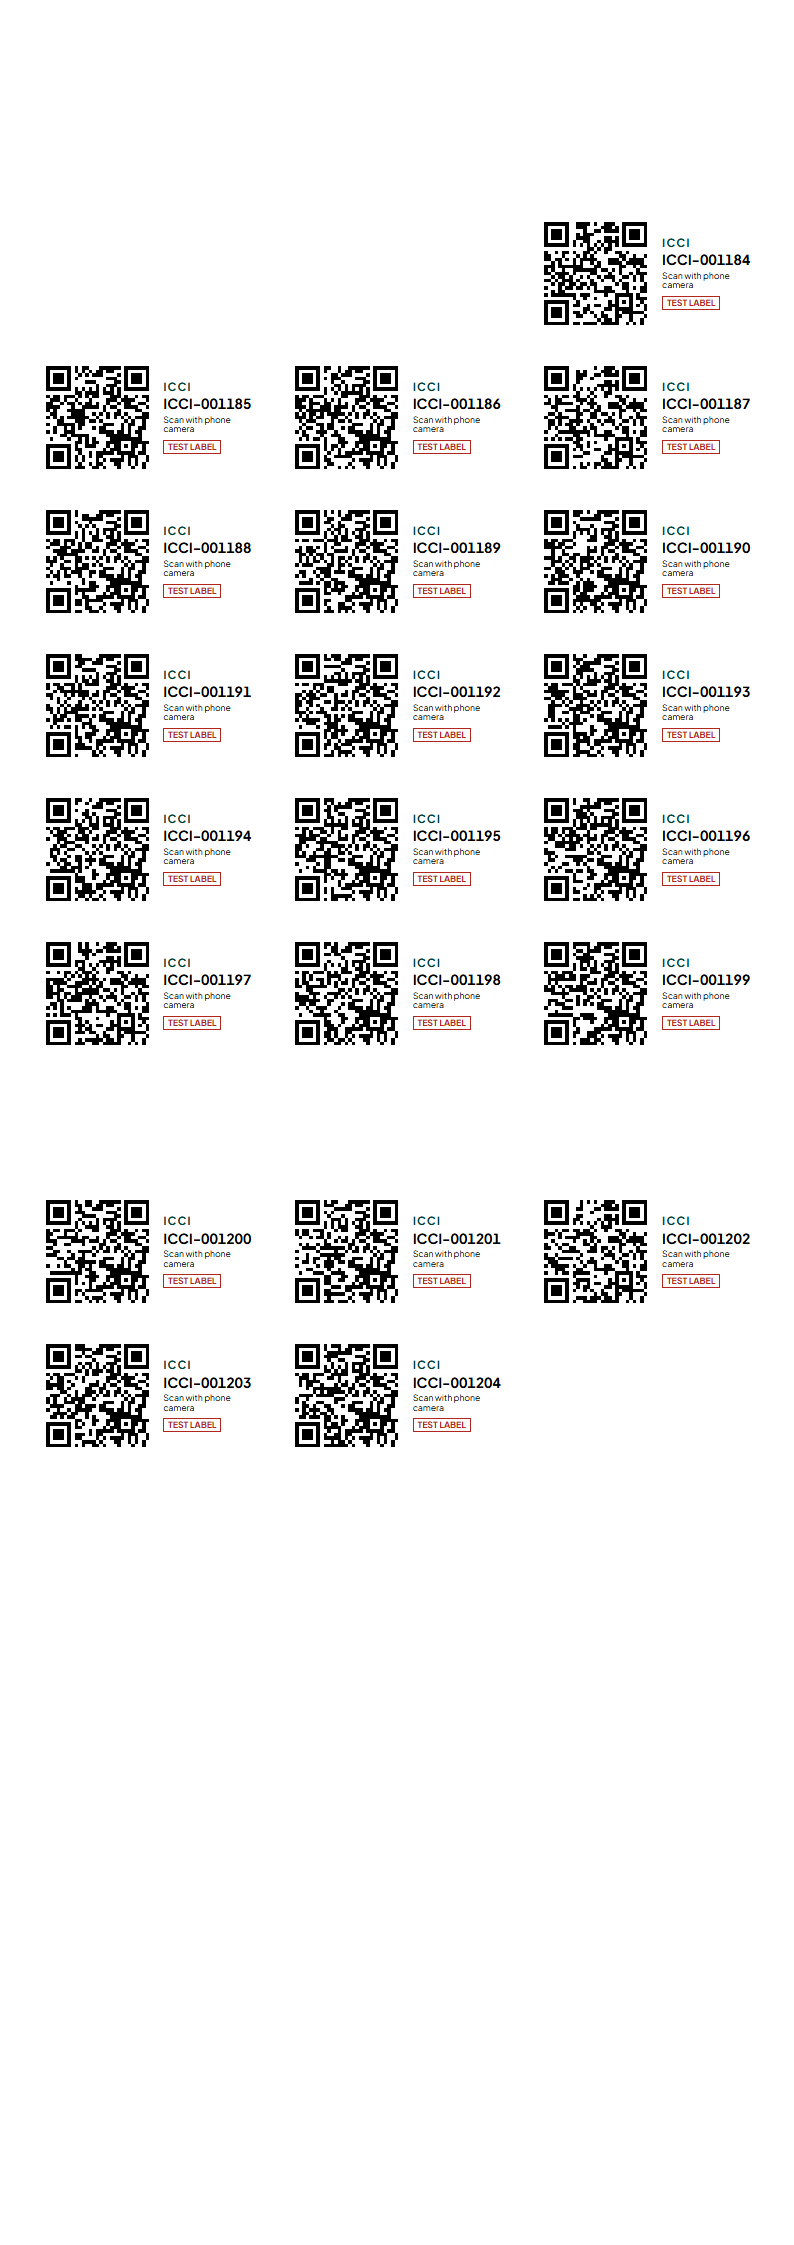
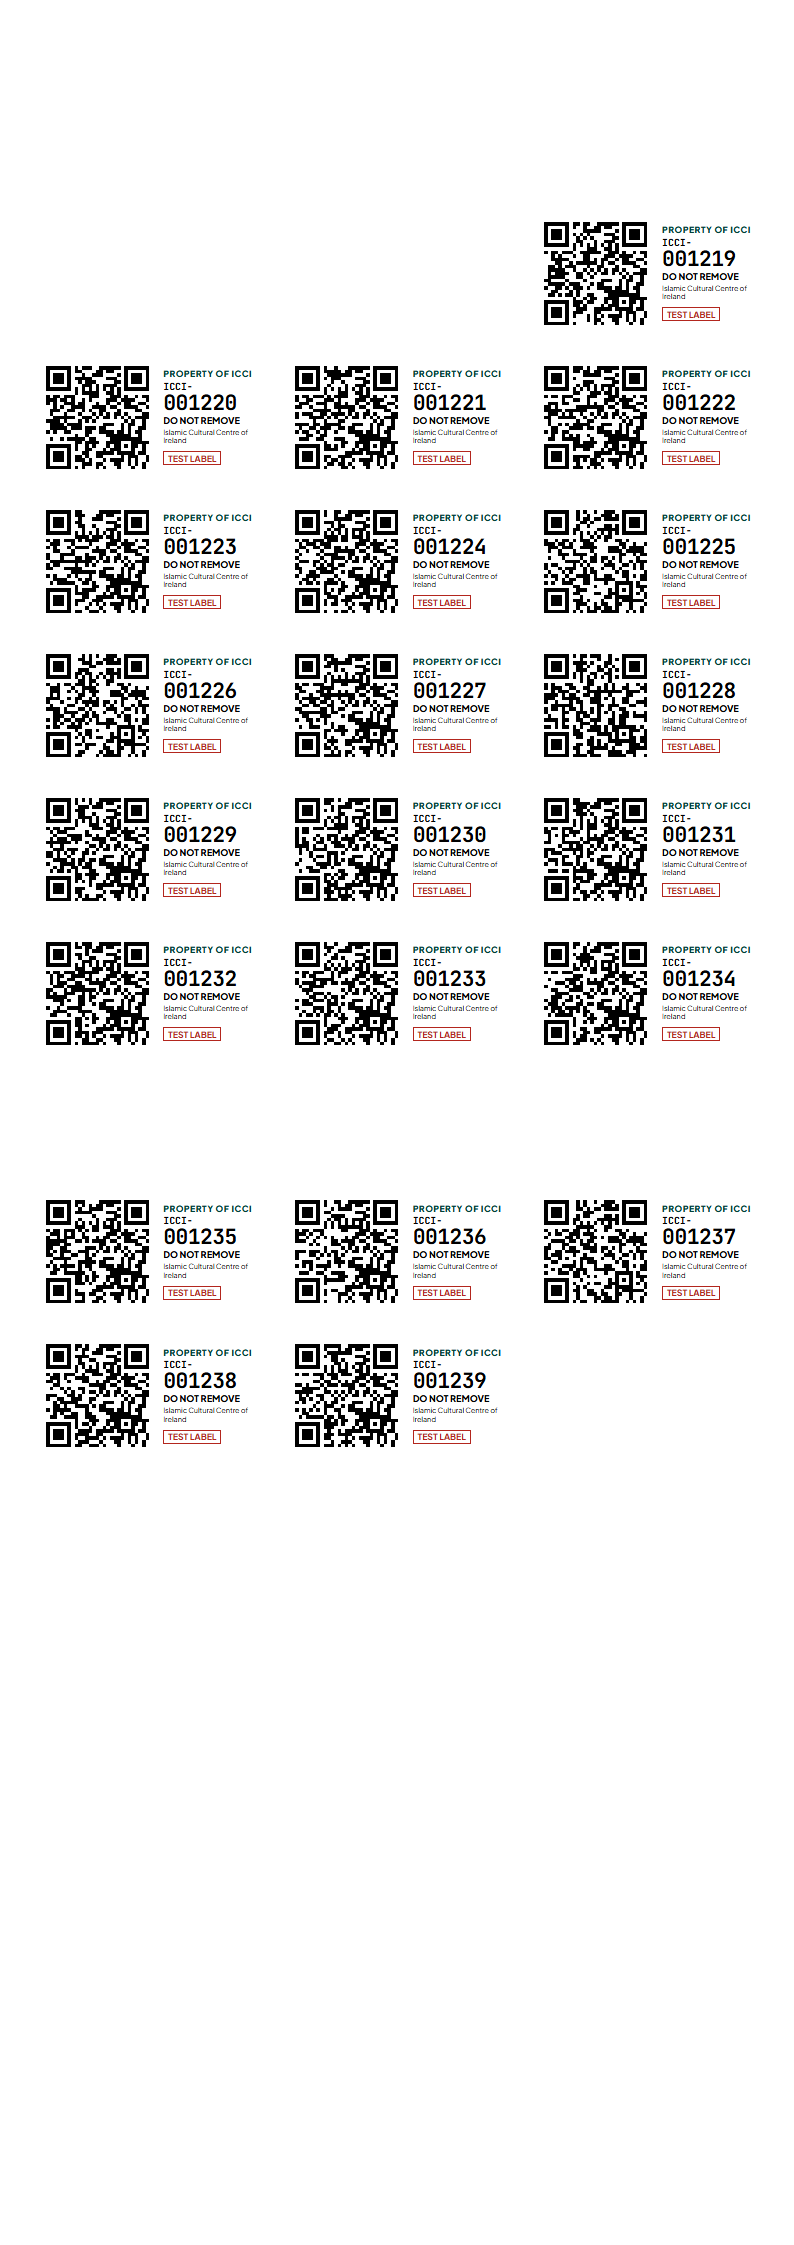
P1.15 item labels as property tags
Each item label now reads PROPERTY OF ICCI, the label number with its six
digits large, DO NOT REMOVE and the Centre's full name beside the QR code,
on the same A4 sheet (Avery L7160 size). Place labels are unchanged.

diff --git a/src/app/(app)/labels/sheet/[id]/page.tsx b/src/app/(app)/labels/sheet/[id]/page.tsx
@@ -160,10 +160,17 @@ function Label({ serial, link, test }: { serial: string; link: string; test: boo
         <rect width={size} height={size} fill="#fff" />
         <path d={qrSvgPath(matrix, QR_MARGIN)} fill="#000" />
       </svg>
+      {/* A property tag (slice P1.15): the number large, whose it is, and not to remove it. */}
       <div className="label-text">
-        <span className="label-org">ICCI</span>
-        <span className="label-serial">{serial}</span>
-        <span className="label-hint">Scan with phone camera</span>
+        <span className="label-owner">Property of ICCI</span>
+        <span className="label-serial" aria-label={serial}>
+          <span className="label-prefix">{serial.slice(0, 5)}</span>
+          <span className="label-digits" data-testid="label-digits">
+            {serial.slice(5)}
+          </span>
+        </span>
+        <span className="label-keep">Do not remove</span>
+        <span className="label-centre">Islamic Cultural Centre of Ireland</span>
         {test && <span className="label-test">TEST LABEL</span>}
       </div>
     </div>

diff --git a/src/app/globals.css b/src/app/globals.css
@@ -292,19 +292,38 @@ a.list-card:hover {
   min-width: 0;
   line-height: 1.1;
 }
-.label-org {
-  font-size: 3mm;
-  font-weight: 700;
-  letter-spacing: 0.1em;
+/* Item labels as property tags (slice P1.15): the number large enough to
+   read across a room, whose it is, and "Do not remove". */
+.label-owner {
+  font-size: 2.3mm;
+  font-weight: 800;
+  letter-spacing: 0.06em;
+  text-transform: uppercase;
   color: var(--icci-green-dark);
 }
 .label-serial {
-  font-size: 3.7mm;
+  display: flex;
+  flex-direction: column;
+  font-family: var(--font-code), monospace;
   font-weight: 700;
+  line-height: 1;
   white-space: nowrap;
 }
-.label-hint {
-  font-size: 2.3mm;
+.label-prefix {
+  font-size: 2.6mm;
+}
+.label-digits {
+  font-size: 5.6mm;
+  letter-spacing: -0.02em;
+}
+.label-keep {
+  font-size: 2.4mm;
+  font-weight: 800;
+  text-transform: uppercase;
+}
+.label-centre {
+  font-size: 1.9mm;
+  line-height: 1.15;
 }
 .label-test {
   align-self: flex-start;

diff --git a/tests/e2e/labels.spec.ts b/tests/e2e/labels.spec.ts
@@ -47,6 +47,11 @@ test("print a new sheet of 21 labels, skip spaces, and print it again", async ({
   // The QR code holds only the link with the number.
   await expect(labels.first()).toHaveAttribute("data-link", `http://localhost:3000/l/${next}`);
   await expect(labels.first().getByText("TEST LABEL")).toBeVisible();
+  // Slice P1.15: a property tag: large number, "Property of ICCI", "Do not remove", the Centre's name.
+  await expect(labels.first().getByTestId("label-digits")).toHaveText(next.slice(5));
+  await expect(labels.first()).toContainText("Property of ICCI");
+  await expect(labels.first()).toContainText("Do not remove");
+  await expect(labels.first()).toContainText("Islamic Cultural Centre of Ireland");
   await expect(page.getByRole("img", { name: `QR code for ${next}` })).toBeVisible();
   await s(page, "label-sheet", project);
 
